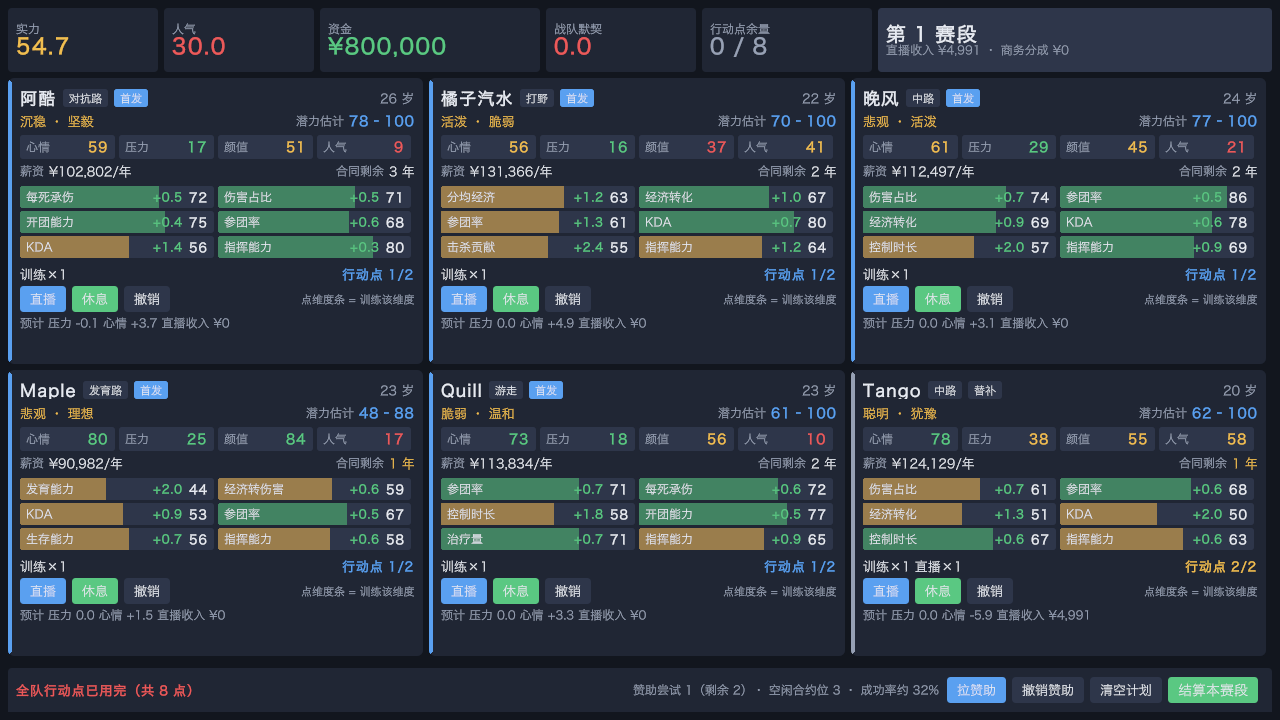
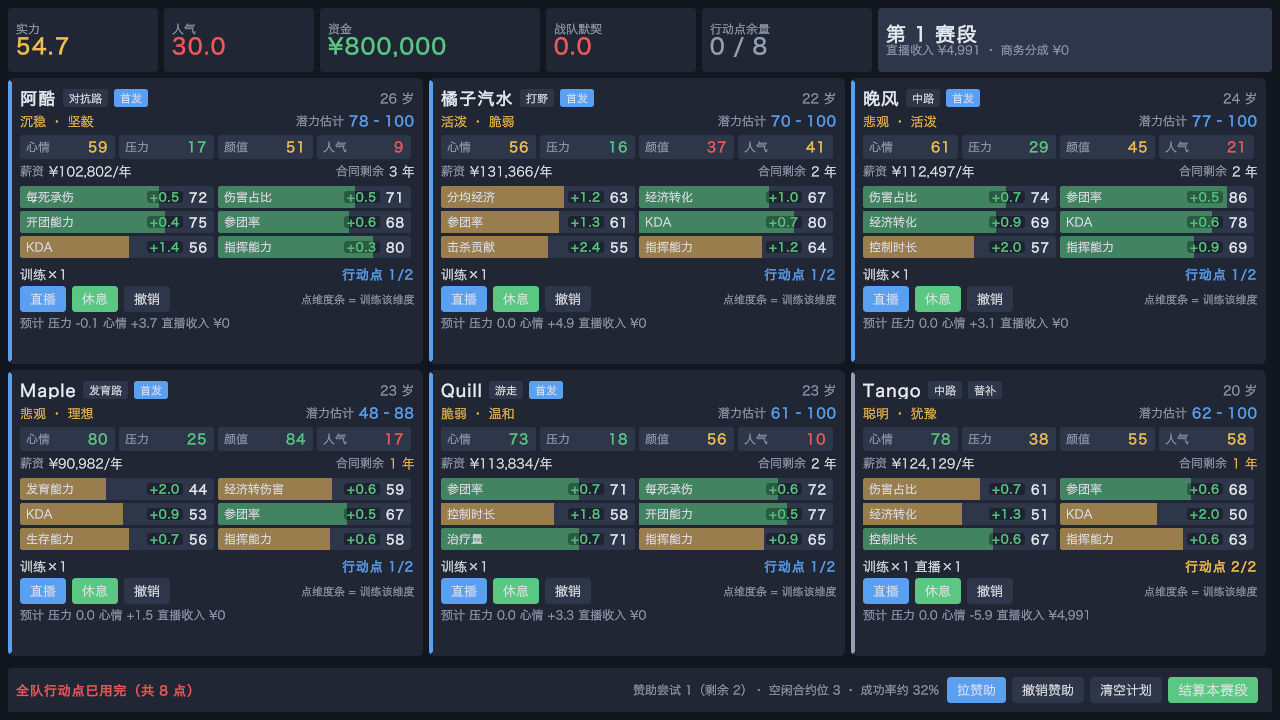
fix: Story 009 UI review fixes and story close
Gain labels get a dark backing pill, separators move into UiStrings,
numbers format culture-independently, font approach marked NOT
SOURCEABLE. Logs TD-002 (bundled CJK font) and TD-003 (screen stack,
scroll/USS). Story 009 closed; EPIC status table brought up to date.

Story: story-009

diff --git a/Assets/Scripts/UI/MainScreen.cs b/Assets/Scripts/UI/MainScreen.cs
@@ -48,11 +48,11 @@ namespace EsportsManager.UI
         {
             var bar = UiKit.Row(64);
             bar.style.marginBottom = 6;
-            bar.Add(StatBlock(UiStrings.Strength, t.Strength.ToString("F1"), UiKit.Scale(t.Strength), 150));
-            bar.Add(StatBlock(UiStrings.Popularity, t.Popularity.ToString("F1"), UiKit.Scale(t.Popularity), 150));
+            bar.Add(StatBlock(UiStrings.Strength, UiKit.F1(t.Strength), UiKit.Scale(t.Strength), 150));
+            bar.Add(StatBlock(UiStrings.Popularity, UiKit.F1(t.Popularity), UiKit.Scale(t.Popularity), 150));
             bar.Add(StatBlock(UiStrings.Funds, UiKit.Yuan(t.Funds), t.Funds < 0 ? UiKit.Bad : UiKit.Good, 220));
-            bar.Add(StatBlock(UiStrings.Chemistry, t.Chemistry.ToString("F1"), UiKit.Scale(t.Chemistry), 150));
-            bar.Add(StatBlock(UiStrings.ActionPoints, pv.PointsRemaining + " / " + t.ActionPoints,
+            bar.Add(StatBlock(UiStrings.Chemistry, UiKit.F1(t.Chemistry), UiKit.Scale(t.Chemistry), 150));
+            bar.Add(StatBlock(UiStrings.ActionPoints, string.Format(UiStrings.PairFormat, pv.PointsRemaining, t.ActionPoints),
                 pv.PointsRemaining > 0 ? UiKit.Accent : UiKit.TextDim, 170));
             var seg = UiKit.Block(UiKit.PanelLight);
             seg.style.flexGrow = 1; seg.style.height = Length.Percent(100);
@@ -110,7 +110,7 @@ namespace EsportsManager.UI
 
             var r4 = UiKit.Row(22);
             r4.Add(Gap(UiKit.Lbl(UiStrings.Salary, 12, UiKit.TextDim)));
-            r4.Add(UiKit.Lbl(string.Format(UiStrings.SalaryPerYearFormat, c.Salary.ToString("N0")), 13, UiKit.Text));
+            r4.Add(UiKit.Lbl(string.Format(UiStrings.SalaryPerYearFormat, UiKit.N0(c.Salary)), 13, UiKit.Text));
             r4.Add(UiKit.Spacer());
             r4.Add(Gap(UiKit.Lbl(UiStrings.ContractLeft, 12, UiKit.TextDim)));
             r4.Add(UiKit.Lbl(string.Format(UiStrings.ContractYearsFormat, c.ContractYearsLeft), 13,
@@ -186,7 +186,7 @@ namespace EsportsManager.UI
             chip.style.paddingLeft = chip.style.paddingRight = 6;
             chip.Add(UiKit.Lbl(label, 12, UiKit.TextDim));
             chip.Add(UiKit.Spacer());
-            chip.Add(UiKit.Lbl(Mathf.RoundToInt(value).ToString(), 14, UiKit.Scale(highBad ? 100f - value : value), true));
+            chip.Add(UiKit.Lbl(UiKit.Int(value), 14, UiKit.Scale(highBad ? 100f - value : value), true));
             return chip;
         }
 
@@ -207,9 +207,12 @@ namespace EsportsManager.UI
             cell.Add(UiKit.Spacer());
             if (gain > 0.005f)
             {
-                var g = UiKit.Lbl(UiKit.Delta(gain), 12, UiKit.Good, true); g.style.marginRight = 6; cell.Add(g);
+                var g = UiKit.Lbl(UiKit.Delta(gain), 12, UiKit.Good, true);
+                g.style.backgroundColor = UiKit.LabelPill; g.style.paddingLeft = g.style.paddingRight = 3;
+                g.style.borderTopLeftRadius = g.style.borderTopRightRadius = g.style.borderBottomLeftRadius = g.style.borderBottomRightRadius = 3;
+                g.style.marginRight = 6; cell.Add(g);
             }
-            var v = UiKit.Lbl(Mathf.RoundToInt(value).ToString(), 13, UiKit.Text, true); v.style.marginRight = 6; cell.Add(v);
+            var v = UiKit.Lbl(UiKit.Int(value), 13, UiKit.Text, true); v.style.marginRight = 6; cell.Add(v);
             return cell;
         }
 
@@ -228,7 +231,7 @@ namespace EsportsManager.UI
                 bar.Add(UiKit.Btn(string.Format(UiStrings.OffersBadgeFormat, unanswered), ui.OpenOffers, UiKit.Warn));
 
             var info = UiKit.Lbl(string.Format(UiStrings.SponsorInfoFormat, pv.SponsorPoints, pv.SponsorAttemptsRemaining,
-                pv.FreeContractSlots, pv.SponsorChanceBeforeNoise), 12, UiKit.TextDim);
+                pv.FreeContractSlots, UiKit.Pct(pv.SponsorChanceBeforeNoise)), 12, UiKit.TextDim);
             info.style.marginRight = 8;
             bar.Add(info);
             bar.Add(UiKit.Btn(UiStrings.Sponsor, ui.Sponsor, UiKit.Accent));

diff --git a/Assets/Scripts/UI/SummaryScreen.cs b/Assets/Scripts/UI/SummaryScreen.cs
@@ -36,9 +36,9 @@ namespace EsportsManager.UI
             body.Add(left);
             var team = Section(left, UiStrings.TeamChanges);
             Change(team, UiStrings.Funds, UiKit.Yuan(r.FundsBefore), UiKit.Yuan(r.FundsAfter), UiKit.YuanDelta(r.FundsAfter - r.FundsBefore), r.FundsAfter - r.FundsBefore);
-            Change(team, UiStrings.Popularity, r.PopularityBefore.ToString("F1"), r.PopularityAfter.ToString("F1"), UiKit.Delta(r.PopularityAfter - r.PopularityBefore), r.PopularityAfter - r.PopularityBefore);
-            Change(team, UiStrings.Chemistry, r.ChemistryBefore.ToString("F1"), r.ChemistryAfter.ToString("F1"), UiKit.Delta(r.ChemistryAfter - r.ChemistryBefore), r.ChemistryAfter - r.ChemistryBefore);
-            Change(team, UiStrings.Strength, r.StrengthBefore.ToString("F1"), r.StrengthAfter.ToString("F1"), UiKit.Delta(r.StrengthAfter - r.StrengthBefore), r.StrengthAfter - r.StrengthBefore);
+            Change(team, UiStrings.Popularity, UiKit.F1(r.PopularityBefore), UiKit.F1(r.PopularityAfter), UiKit.Delta(r.PopularityAfter - r.PopularityBefore), r.PopularityAfter - r.PopularityBefore);
+            Change(team, UiStrings.Chemistry, UiKit.F1(r.ChemistryBefore), UiKit.F1(r.ChemistryAfter), UiKit.Delta(r.ChemistryAfter - r.ChemistryBefore), r.ChemistryAfter - r.ChemistryBefore);
+            Change(team, UiStrings.Strength, UiKit.F1(r.StrengthBefore), UiKit.F1(r.StrengthAfter), UiKit.Delta(r.StrengthAfter - r.StrengthBefore), r.StrengthAfter - r.StrengthBefore);
 
             var money = Section(left, UiStrings.MoneyLines);
             Line(money, UiStrings.LivestreamIncome, UiKit.Yuan(sum.LivestreamIncome), UiKit.Text);
@@ -55,7 +55,7 @@ namespace EsportsManager.UI
             for (int i = 0; i < sum.SponsorAttempts.Count; i++)
             {
                 var a = sum.SponsorAttempts[i];
-                sp.Add(UiKit.Lbl(string.Format(UiStrings.SponsorAttemptFormat, i + 1, a.Chance, a.Success ? UiStrings.Success : UiStrings.Failure),
+                sp.Add(UiKit.Lbl(string.Format(UiStrings.SponsorAttemptFormat, i + 1, UiKit.Pct(a.Chance), a.Success ? UiStrings.Success : UiStrings.Failure),
                     13, a.Success ? UiKit.Good : UiKit.Bad));
             }
             foreach (var c in sum.NewContracts)
@@ -95,7 +95,7 @@ namespace EsportsManager.UI
         {
             var row = UiKit.Row(22);
             var l = UiKit.Lbl(label, 13, UiKit.TextDim); l.style.width = 80; row.Add(l);
-            row.Add(UiKit.Lbl(before + " → " + after, 13));
+            row.Add(UiKit.Lbl(string.Format(UiStrings.BeforeAfterFormat, before, after), 13));
             row.Add(UiKit.Spacer());
             row.Add(UiKit.Lbl(delta, 13, UiKit.DeltaColor(d), true));
             parent.Add(row);
@@ -146,11 +146,11 @@ namespace EsportsManager.UI
                     if (t.Gains != null) for (int i = 0; i < t.Gains.Length && i < perDim.Length; i++) perDim[i] += t.Gains[i];
                 }
                 foreach (var g in perDim) total += g;
-                training = string.Join("  ", parts) + "  " + string.Format(UiStrings.TrainingTotalFormat, UiKit.Delta(total));
+                training = string.Join(UiStrings.PartSeparator, parts) + UiStrings.PartSeparator + string.Format(UiStrings.TrainingTotalFormat, UiKit.Delta(total));
             }
             var colors = new[] { UiKit.Text, UiKit.Text, UiKit.DeltaColor(p.MoodDelta), UiKit.DeltaColor(p.StressDelta, true),
                 UiKit.DeltaColor(p.PopularityDelta), UiKit.Good };
-            return TableRow(false, s.PlayerName(p.PlayerId), acts.Count == 0 ? UiStrings.NoActions : string.Join(" ", acts),
+            return TableRow(false, s.PlayerName(p.PlayerId), acts.Count == 0 ? UiStrings.NoActions : string.Join(UiStrings.ActionSeparator, acts),
                 UiKit.Delta(p.MoodDelta), UiKit.Delta(p.StressDelta), UiKit.Delta(p.PopularityDelta), training, colors);
         }
     }

diff --git a/Assets/Scripts/UI/UiKit.cs b/Assets/Scripts/UI/UiKit.cs
@@ -1,3 +1,4 @@
+using System.Globalization;
 using UnityEngine;
 using UnityEngine.UIElements;
 
@@ -15,6 +16,11 @@ namespace EsportsManager.UI
         public static readonly Color Good = new Color32(90, 200, 130, 255);
         public static readonly Color Warn = new Color32(240, 190, 80, 255);
         public static readonly Color Bad = new Color32(235, 90, 90, 255);
+        /// <summary>Backing pill behind a label drawn over a coloured bar, so green text stays readable on a green fill.</summary>
+        public static readonly Color LabelPill = new Color(0f, 0f, 0f, 0.55f);
+
+        /// <summary>Numbers are formatted culture-independently so the display does not change with the OS locale.</summary>
+        private static readonly CultureInfo Inv = CultureInfo.InvariantCulture;
 
         /// <summary>A single-line label.</summary>
         public static Label Lbl(string text, int size = 13, Color? color = null, bool bold = false)
@@ -64,7 +70,7 @@ namespace EsportsManager.UI
         }
 
         /// <summary>Formats a yuan amount with thousands separators and a sign for negatives.</summary>
-        public static string Yuan(long v) => (v < 0 ? "-" : "") + UiStrings.Yuan + System.Math.Abs(v).ToString("N0");
+        public static string Yuan(long v) => (v < 0 ? "-" : "") + UiStrings.Yuan + System.Math.Abs(v).ToString("N0", Inv);
 
         /// <summary>A styled button (no theme needed). Disabled buttons are dimmed and ignore clicks.</summary>
         public static Button Btn(string text, System.Action onClick, Color bg, bool enabled = true, int size = 13)
@@ -85,7 +91,19 @@ namespace EsportsManager.UI
         }
 
         /// <summary>Signed one-decimal delta, e.g. "+1.2" / "-0.5" / "0.0".</summary>
-        public static string Delta(float v) => v.ToString("+0.0;-0.0;0.0");
+        public static string Delta(float v) => v.ToString("+0.0;-0.0;0.0", Inv);
+
+        /// <summary>One-decimal value, e.g. "52.3".</summary>
+        public static string F1(float v) => v.ToString("F1", Inv);
+
+        /// <summary>Whole number with thousands separators, e.g. "12,000".</summary>
+        public static string N0(long v) => v.ToString("N0", Inv);
+
+        /// <summary>Rounded integer, e.g. "67".</summary>
+        public static string Int(float v) => Mathf.RoundToInt(v).ToString(Inv);
+
+        /// <summary>Probability 0-1 as a whole percent, e.g. "45%".</summary>
+        public static string Pct(float p) => Mathf.RoundToInt(p * 100f).ToString(Inv) + "%";
 
         /// <summary>Signed yuan delta.</summary>
         public static string YuanDelta(long v) => (v > 0 ? "+" : "") + Yuan(v);

diff --git a/Assets/Scripts/UI/UiStrings.cs b/Assets/Scripts/UI/UiStrings.cs
@@ -34,9 +34,14 @@ namespace EsportsManager.UI
         public const string PotentialEstimate = "潜力估计";
         public const string PotentialRangeFormat = "{0}–{1}";
         public const string TraitSeparator = " · ";
+        public const string PairFormat = "{0} / {1}";
+        public const string BeforeAfterFormat = "{0} → {1}";
+        public const string PartSeparator = "  ";
+        public const string ActionSeparator = " ";
 
         // ---- assignment
         public const string Train = "训练";
+        public const string TrainDimFormat = "训练 {0}";
         public const string Stream = "直播";
         public const string Rest = "休息";
         public const string Business = "商务";
@@ -48,7 +53,7 @@ namespace EsportsManager.UI
         public const string PreviewFormat = "预计  压力 {0}  心情 {1}  直播收入 {2}";
         public const string Sponsor = "拉赞助";
         public const string UndoSponsor = "撤销赞助";
-        public const string SponsorInfoFormat = "赞助尝试 {0}（剩余 {1}）· 空闲合约位 {2} · 成功率约 {3:P0}";
+        public const string SponsorInfoFormat = "赞助尝试 {0}（剩余 {1}）· 空闲合约位 {2} · 成功率约 {3}";
         public const string ClearPlan = "清空计划";
         public const string Resolve = "结算本赛段";
         public const string OffersBadgeFormat = "商务邀约 {0}";
@@ -87,7 +92,7 @@ namespace EsportsManager.UI
         public const string PrizeMoney = "奖金";
         public const string SponsorResults = "赞助";
         public const string NoSponsorAttempt = "本赛段没有拉赞助";
-        public const string SponsorAttemptFormat = "第 {0} 次：成功率 {1:P0} → {2}";
+        public const string SponsorAttemptFormat = "第 {0} 次：成功率 {1} → {2}";
         public const string Success = "成功";
         public const string Failure = "失败";
         public const string NewContractFormat = "新合约 {0}/赛段，共 {1} 赛段";

diff --git a/Assets/Scripts/UI/UiFont.cs b/Assets/Scripts/UI/UiFont.cs
@@ -10,6 +10,9 @@ namespace EsportsManager.UI
     /// Chinese font setup. The default UI Toolkit font has no CJK glyphs. Font.CreateDynamicFontFromOSFont does NOT work
     /// with UI Toolkit text (it logs "Unable to load font face"), so a font FILE of the OS is opened by path and wrapped in
     /// a dynamic SDF FontAsset (glyphs are added to the atlas on demand).
+    /// NOT SOURCEABLE: this approach is not covered by docs/engine-reference/unity/ or the Unity 6.6 docs we checked;
+    /// it is verified only by running the build (Story 009 screenshots). Before shipping, bundle an open CJK font
+    /// (e.g. Source Han Sans) in the project instead of relying on OS font files (tech debt TD-002).
     /// </summary>
     public static class UiFont
     {

diff --git a/Assets/Scripts/UI/GameUi.cs b/Assets/Scripts/UI/GameUi.cs
@@ -52,7 +52,7 @@ namespace EsportsManager.UI
         public void Train(long id, int dim)
         {
             if (Session.TryAddTrain(id, dim, out var e))
-                Say(string.Format(UiStrings.Added, Session.PlayerName(id), UiStrings.Train + " " + Session.DimensionNames(id)[dim]), false);
+                Say(string.Format(UiStrings.Added, Session.PlayerName(id), string.Format(UiStrings.TrainDimFormat, Session.DimensionNames(id)[dim])), false);
             else Say(ErrorText(e), true);
         }
         public void Stream(long id)

diff --git a/production/epics/esports-manager/story-009-text-ui.md b/production/epics/esports-manager/story-009-text-ui.md
@@ -1,12 +1,12 @@
 # Story 009: 文字界面（第一个可玩版本）
 
 > **Epic**: 战队经理人 MVP
-> **Status**: In Progress
+> **Status**: Complete
 > **Layer**: Presentation
 > **Type**: UI
 > **Estimate**: [fill before starting]
 > **Manifest Version**: N/A (minimal — no control manifest)
-> **Last Updated**: 2026-10-16
+> **Last Updated**: 2026-10-19
 
 ## Context
 
@@ -77,7 +77,7 @@
 **Story Type**: UI
 **Required evidence**: retained screenshot of each screen touched in `production/qa/evidence/story-009-text-ui/` (required — not waived at `qa.level: minimal`)
 
-**Status**: [ ] Not yet created
+**Status**: [x] Created — 6 screenshots retained in `production/qa/evidence/story-009-text-ui/`
 
 ---
 
@@ -85,3 +85,15 @@
 
 - Depends on: Story 003
 - Unlocks: Story 004
+
+---
+
+## Completion Notes
+**Completed**: 2026-10-19
+**Criteria**: 9/10 passing, 1 deferred — AC1 "资金为负时显示负数" is implemented (`UiKit.Yuan` signs negatives, `MainScreen` colours them red) but has no test and was not seen in play; check it when funds go negative in a later playtest.
+**Deviations**: None blocking. AC4's over-limit rejection was not tried by hand; it is covered by `GameSessionTests` and the red "全队行动点已用完" message visible in `03-assign.png`. Unity Cloud project link cleared in `ProjectSettings/ProjectSettings.asset` (user-approved).
+**Test Evidence**: UI — 6 retained screenshots (`01-main` … `06-after-4-segments`), all opened and checked; `Assets/Tests/EditMode/UI/GameSessionTests.cs`; full suite 517/517 pass (2026-10-19, after the review fixes).
+**Code Review**: Skipped (solo mode); unity-ui-specialist reviewed — no blocking findings. Fixed: gain-label contrast, separators moved into `UiStrings`, culture-independent number formatting, font-approach comment (NOT SOURCEABLE).
+**Run result**: OBSERVED — rebuilt macOS player, screenshots recaptured 2026-10-19; user also played 12 segments by hand without errors.
+**Tech debt logged**: TD-002 (bundle a CJK font), TD-003 (screen stack before 004; scroll list + USS theme before 005).
+**Carry-forward**: Player-feedback after 12 segments — the loop feels flat without matches, year-end and events. Decided order: 004 match → 006 action-tied events → 005 → 007; procedurally generated avatars as a new story afterwards. UI must still never show `Player.Potential`.

diff --git a/docs/tech-debt-register.md b/docs/tech-debt-register.md
@@ -1,7 +1,9 @@
 ## Technical Debt Register
-Last updated: 2026-10-16
-Total items: 1 | Estimated total effort: S
+Last updated: 2026-10-19
+Total items: 3 | Estimated total effort: M
 
 | ID | Category | Description | Files | Effort | Impact | Priority | Status | Added | Sprint |
 |----|----------|-------------|-------|--------|--------|----------|--------|-------|--------|
 | TD-001 | Code Quality | Data file breaks `.claude/rules/data-files.md`: file is `PlayerConfig.json` (rule: lowercase `[system]_[name].json`) and keys are camelCase (rule: snake_case, bound through a private wire-format DTO). Also `playersPerLane = 5` is a code-side default — from production/epics/esports-manager/story-001-player-model.md | Assets/Data/PlayerConfig.json, Assets/Scripts/Players/PlayerConfig.cs, Assets/Scripts/Players/PlayerConfigLoader.cs | S | Low | — | Resolved 2026-10-16 | 2026-10-15 | Backlog |
+| TD-002 | Portability | CJK font is loaded from OS font files (Hiragino Sans GB on macOS, fallbacks for Windows/Linux); a machine without them renders Chinese as boxes. Bundle an open CJK font (e.g. Source Han Sans) as a project asset before shipping — from production/epics/esports-manager/story-009-text-ui.md review | Assets/Scripts/UI/UiFont.cs | S | Low (hobby build on this Mac) | Before shipping | Open | 2026-10-19 | Backlog |
+| TD-003 | Architecture | Screens are switched by if-branches in GameUi (main / summary / offer pop-up). Add a simple screen stack before Story 004 adds match report screens; add scrollable lists and a shared USS theme before Story 005's transfer market — from production/epics/esports-manager/story-009-text-ui.md review | Assets/Scripts/UI/GameUi.cs, Assets/Scripts/UI/MainScreen.cs, Assets/Scripts/UI/SummaryScreen.cs | M | Medium | Start of Story 004 (stack), Story 005 (scroll/USS) | Open | 2026-10-19 | Backlog |

diff --git a/production/epics/esports-manager/EPIC.md b/production/epics/esports-manager/EPIC.md
@@ -11,12 +11,12 @@
 
 | # | Story | Type | Status | ADR |
 |---|-------|------|--------|-----|
-| 001 | 选手数据模型和虚构选手池 | Logic | Ready | N/A (minimal) |
-| 002 | 战队三角和默契 | Logic | Ready | N/A (minimal) |
-| 003 | 赛段行动逻辑 | Logic | Ready | N/A (minimal) |
+| 001 | 选手数据模型和虚构选手池 | Logic | Complete | N/A (minimal) |
+| 002 | 战队三角和默契 | Logic | Complete | N/A (minimal) |
+| 003 | 赛段行动逻辑 | Logic | Complete | N/A (minimal) |
 | 004 | 比赛模拟和战报 | Logic | Ready | N/A (minimal) |
 | 005 | 年度循环和转会期 | Integration | Ready | N/A (minimal) |
 | 006 | 选手事件 | Logic | Ready | N/A (minimal) |
 | 007 | 破产判定和年终总结 | UI | Ready | N/A (minimal) |
-| 008 | 选手模型升级（按 numbers.md） | Logic | Ready | N/A (minimal) |
-| 009 | 文字界面（第一个可玩版本） | UI | Ready | N/A (minimal) |
+| 008 | 选手模型升级（按 numbers.md） | Logic | Complete | N/A (minimal) |
+| 009 | 文字界面（第一个可玩版本） | UI | Complete | N/A (minimal) |
